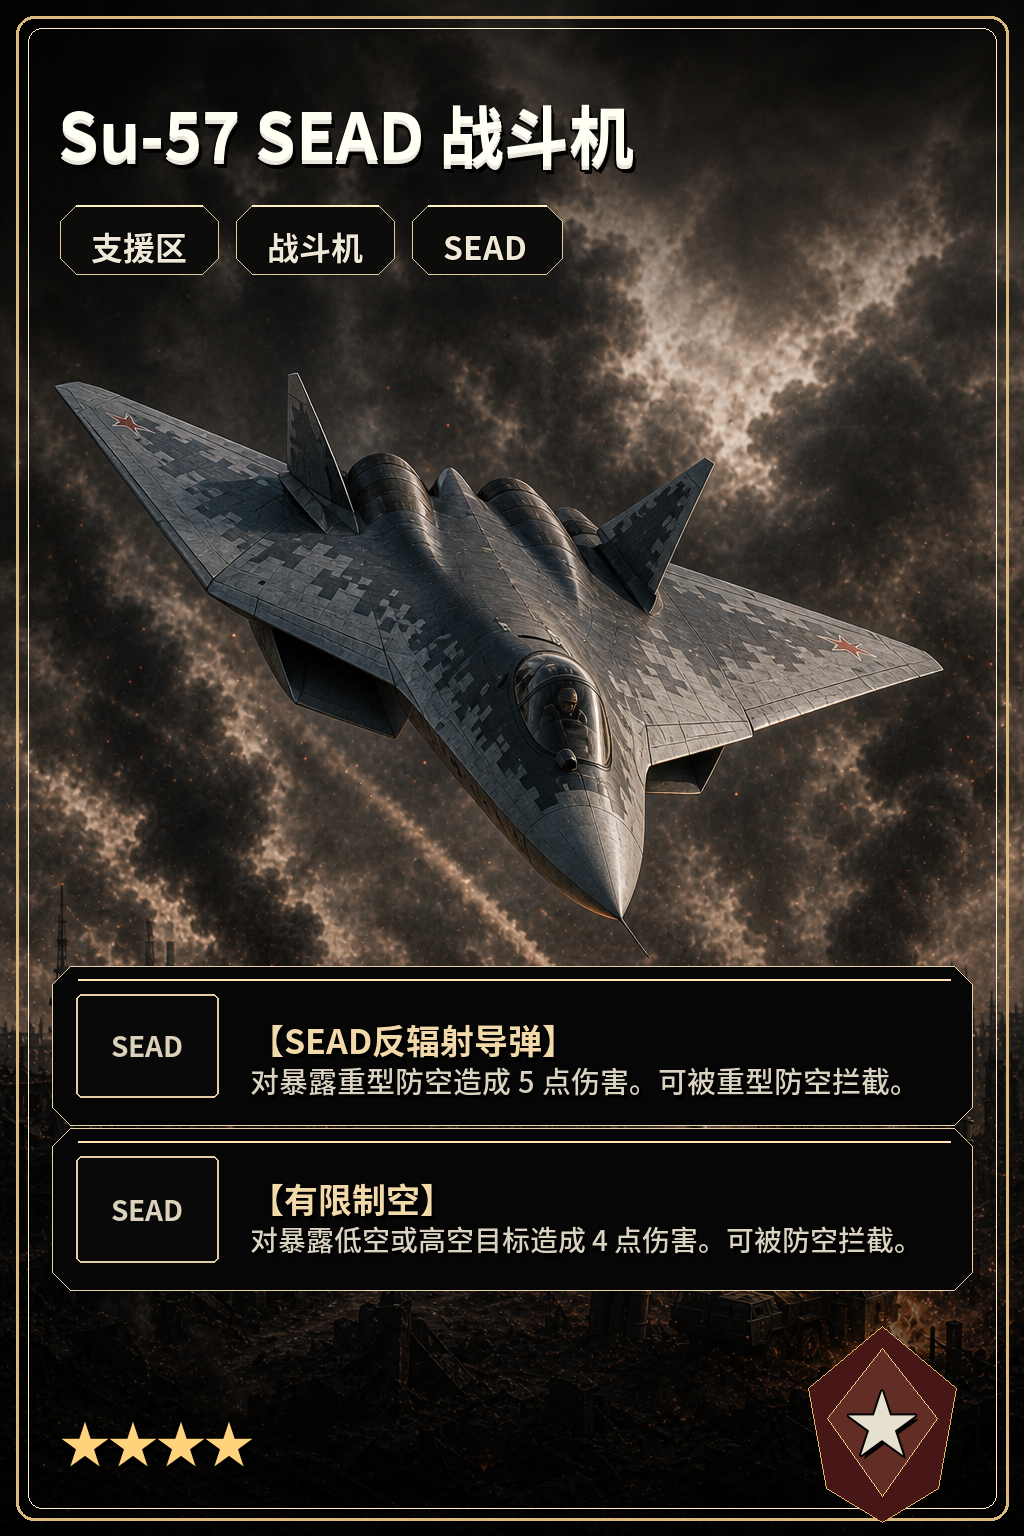
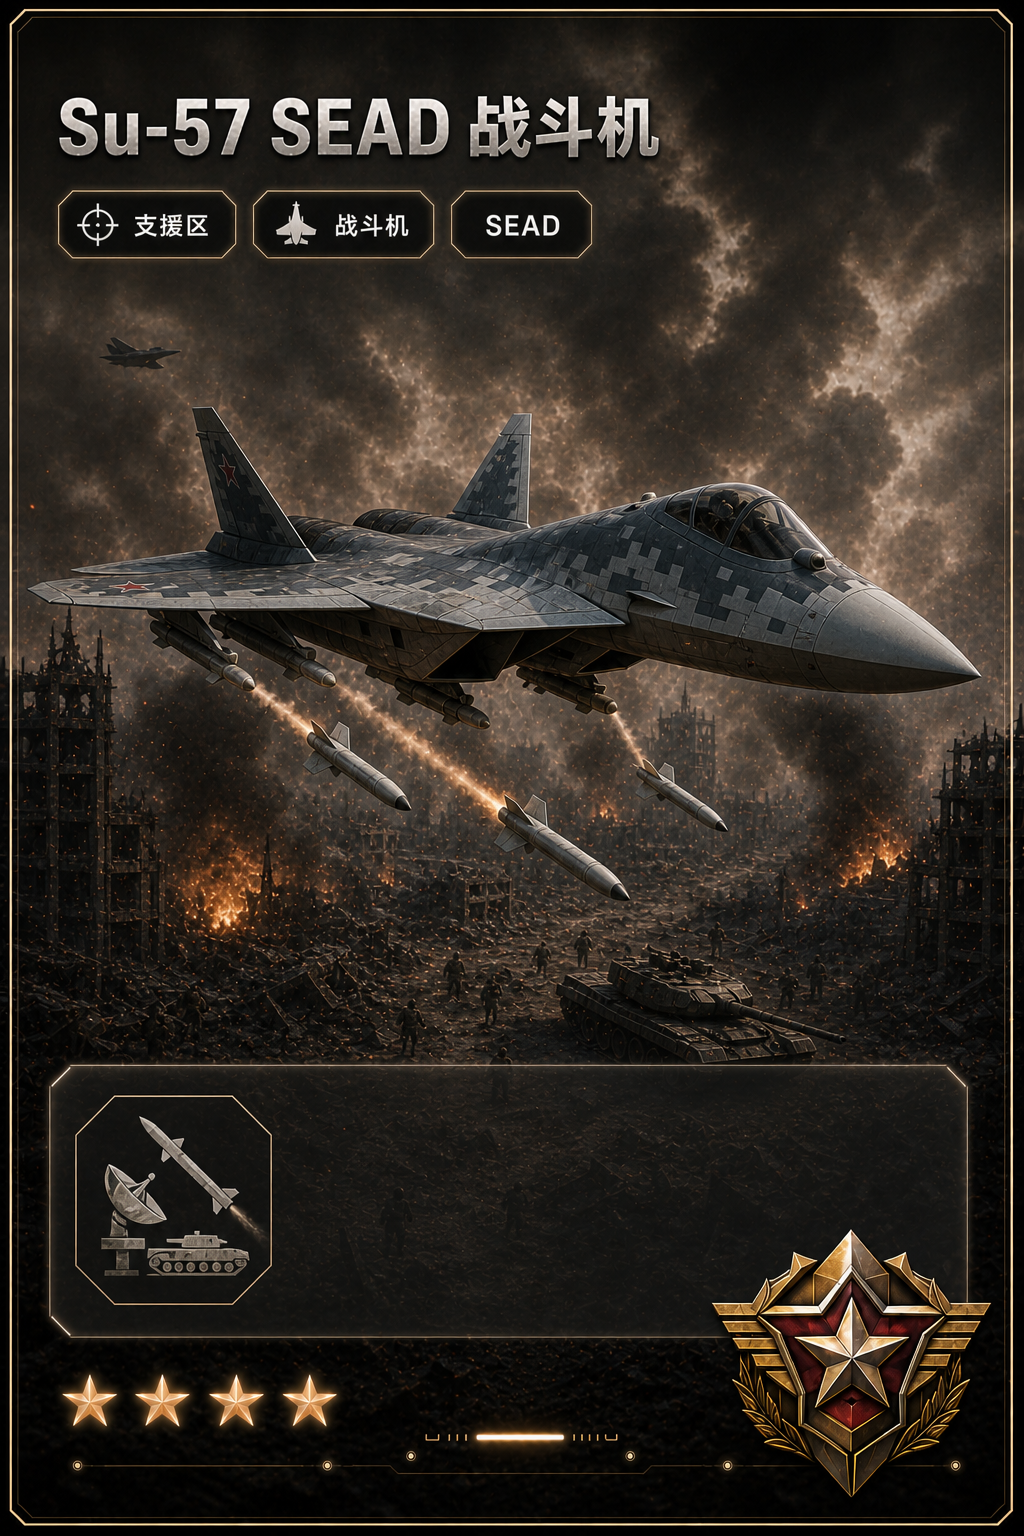
Fix generated card detail overlays

diff --git a/styles.css b/styles.css
@@ -6175,66 +6175,64 @@ button:disabled {
   background-image: var(--card-art);
 }
 
-.war-card--generated-detail .war-card__body {
-  display: grid !important;
+.war-card--generated-detail.war-card--live-detail-overlay .war-card__body {
+  display: block !important;
   position: absolute;
-  left: 18px;
-  right: 18px;
+  left: 86px;
+  right: 22px;
   bottom: 72px;
   z-index: 7;
-  min-height: 142px;
-  gap: 8px;
-  align-content: end;
+  height: 78px;
   padding: 0;
-  overflow: visible;
+  overflow: hidden;
   background: none;
+  color: #fff8e9;
+  text-align: left;
 }
 
-.war-card--generated-detail .war-card__skill {
-  display: grid !important;
-  min-height: 62px;
-  grid-template-columns: 54px minmax(0, 1fr);
-  align-items: center;
-  gap: 9px;
+.war-card--generated-detail.war-card--live-detail-overlay .war-card__skill {
+  display: inline !important;
+  min-height: 0;
   margin: 0;
-  padding: 8px 15px 8px 8px;
+  padding: 0;
   border: 0;
   border-radius: 0;
   color: #fff8e9;
-  background: none;
-  box-shadow: none;
+  background: none !important;
+  box-shadow: none !important;
   backdrop-filter: none;
-  font-size: 0.86rem;
-  line-height: 1.3;
+  font-size: 0.57rem;
+  line-height: 1.23;
+  font-weight: 850;
 }
 
-.war-card--generated-detail .war-card__skill-icon {
-  visibility: hidden;
+.war-card--generated-detail.war-card--live-detail-overlay .war-card__skill + .war-card__skill::before {
+  content: " ";
 }
 
-.war-card--generated-detail .war-card__skill-copy {
-  display: block;
+.war-card--generated-detail.war-card--live-detail-overlay .war-card__skill-icon {
+  display: none !important;
+}
+
+.war-card--generated-detail.war-card--live-detail-overlay .war-card__skill-copy {
+  display: inline;
   min-width: 0;
-  padding: 3px 6px;
+  padding: 0;
   color: #fff8e9;
   font-size: inherit;
   line-height: inherit;
-  font-weight: 800;
+  font-weight: inherit;
   background: transparent;
   box-shadow: none;
   text-shadow: 0 2px 4px rgba(0, 0, 0, 0.95), 0 0 8px rgba(0, 0, 0, 0.8);
 }
 
-.war-card--generated-detail .war-card__skill-copy strong {
+.war-card--generated-detail.war-card--live-detail-overlay .war-card__skill-copy strong {
   display: inline;
   color: #ffffff;
   font-size: inherit;
   line-height: inherit;
   font-weight: 1000;
-}
-
-.war-card--generated-detail .war-card__body {
-  display: none !important;
 }
 
 @media (max-width: 760px) {
@@ -6301,10 +6299,6 @@ button:disabled {
 .card-spotlight .war-card--generated-card .war-card__power {
   right: 20px !important;
   top: 18px !important;
-}
-
-.war-card--generated-detail .war-card__power {
-  display: none !important;
 }
 
 .war-card--generated-detail .war-card__power strong,

diff --git a/src/main.js b/src/main.js
@@ -20,6 +20,7 @@ import {
   getSkillGlyph,
   getTagBadgePath,
   hasGeneratedCardImages,
+  hasLiveDetailOverlay,
   isModernUnitCard,
   renderRarityStars,
 } from "./card-design.js";
@@ -1095,6 +1096,7 @@ function renderWarCard(card, options = {}) {
   const fan = ((options.index || 0) - ((options.total || 1) - 1) / 2) * spread;
   const generated = hasGeneratedCardImages(card);
   const detailArtPath = options.preview ? getCardDetailImagePath(card) : "";
+  const liveDetailOverlay = Boolean(detailArtPath && hasLiveDetailOverlay(card));
   const artPath = detailArtPath || getCardArtPath(card);
   const modern = isModernUnitCard(card);
   const primaryTag = card.tags[0] || typeLabel;
@@ -1108,6 +1110,7 @@ function renderWarCard(card, options = {}) {
     modern ? "war-card--modern" : "",
     generated ? "war-card--generated-card" : "",
     detailArtPath ? "war-card--generated-detail" : "",
+    liveDetailOverlay ? "war-card--live-detail-overlay" : "",
     options.preview ? "war-card--detailed" : "war-card--simple",
     options.preview ? "war-card--preview" : "",
     options.selected ? "is-selected" : "",
@@ -1115,7 +1118,7 @@ function renderWarCard(card, options = {}) {
   ]
     .filter(Boolean)
     .join(" ");
-  const showPowerBadge = card.type === "unit" || !generated;
+  const showPowerBadge = card.type === "unit" ? (!detailArtPath || liveDetailOverlay) : !generated;
   const powerBadge = card.type === "unit" ? card.power : card.type === "tactic" ? "T" : "S";
   const renderedTags = card.tags.slice(0, 3).map((tag) => {
     const tagBadge = getTagBadgePath(tag);

diff --git a/src/card-design.js b/src/card-design.js
@@ -134,6 +134,12 @@ export const GENERATED_DETAIL_CARD_IDS = new Set([
   "ru_kalibr",
 ]);
 
+export const LIVE_DETAIL_OVERLAY_CARD_IDS = new Set([
+  "us_f35",
+  "us_f35a_sead",
+  "ru_su57_sead",
+]);
+
 export const CARD_FIRE_VIDEO_PATHS = {
   us_m1a2: `${CARD_FIRE_VIDEO_ROOT}/us_m1a2-fire.mp4`,
 };
@@ -235,6 +241,10 @@ export function getCardDetailImagePath(card) {
 export function hasGeneratedCardImages(card) {
   const generated = getGeneratedCardImages(card);
   return Boolean(generated?.art);
+}
+
+export function hasLiveDetailOverlay(card) {
+  return LIVE_DETAIL_OVERLAY_CARD_IDS.has(card?.id);
 }
 
 export function getCardFireVideoPath(card) {
